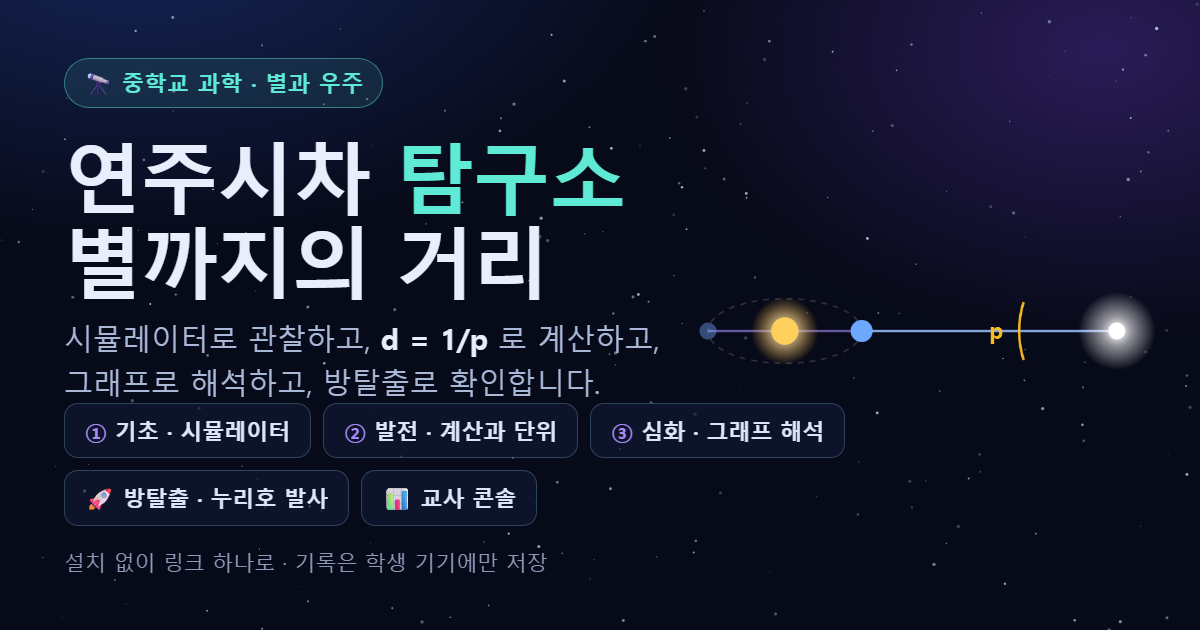
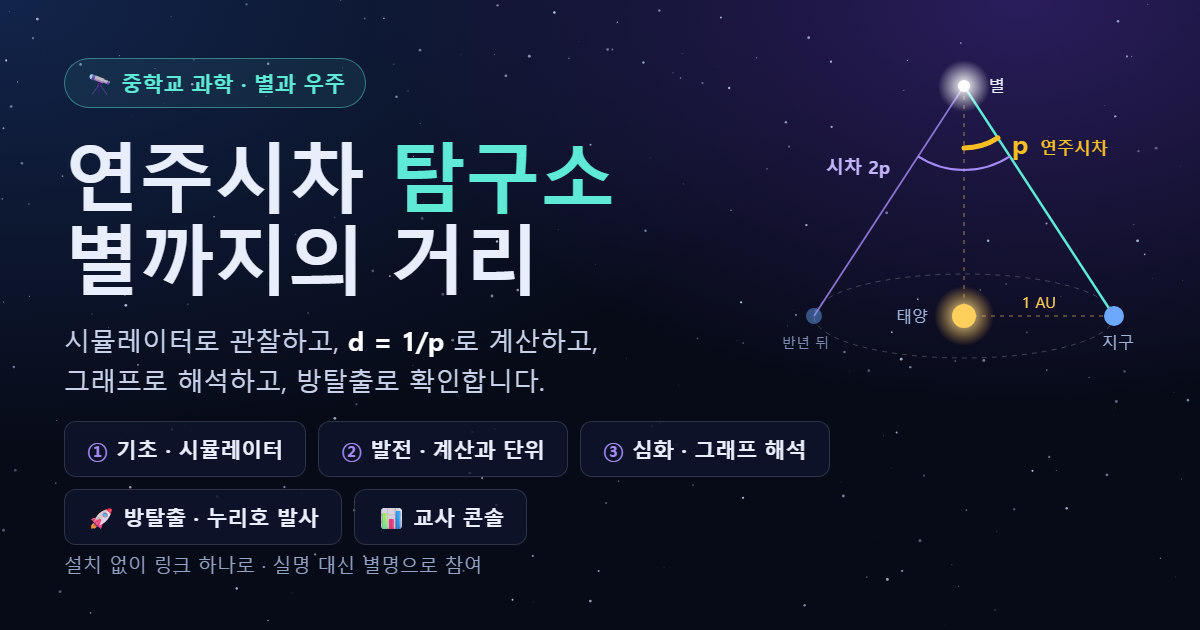
연주시차 그림 수정(전체 각=시차 2p, 절반=연주시차 p), 표 해석→질문, 로그아웃 추가
- 시뮬레이터·미리보기 이미지(og.png): 태양–별 기준선, 1 AU, 시차 2p와 연주시차 p를 구분해 표시
- 관찰 기록표 아래 결론 문장 삭제, 스스로 해석하도록 돕는 질문 4개로 교체
- 학습앱: 상단 로그아웃(저장·즉시 전송 후 새로 불러와 앞 사람 화면 상태 제거), 로그인 칸 비움
- 방탈출: 게임 중·완료 후 로그아웃(진행 상태 암호화 저장·시트 전송), 로그인 칸 비움

diff --git a/index.html b/index.html
@@ -21,7 +21,7 @@
 <meta property="og:image:type" content="image/png">
 <meta property="og:image:width" content="1200">
 <meta property="og:image:height" content="630">
-<meta property="og:image:alt" content="태양을 도는 지구의 두 위치에서 같은 별을 바라볼 때 생기는 연주시차 각 p를 나타낸 그림과 앱 소개">
+<meta property="og:image:alt" content="태양 좌우의 두 지구 위치에서 같은 별을 볼 때 생기는 시차 2p와 그 절반인 연주시차 p를 나타낸 그림과 앱 소개">
 <meta name="twitter:card" content="summary_large_image">
 <meta name="twitter:title" content="연주시차 탐구소 · 별까지의 거리">
 <meta name="twitter:description" content="관찰 → 계산(d = 1/p) → 그래프 해석 → 방탈출. 중학교 과학 ‘별과 우주’ 학습앱.">
@@ -208,6 +208,7 @@ footer.foot{text-align:center;color:var(--muted);font-size:.8rem;padding:20px 0}
     <button class="btn small ghost" id="btnHome">학습 허브</button>
     <button class="btn small ghost" id="btnTeacher">교사 콘솔</button>
     <div class="who" id="whoami"></div>
+    <button class="btn small ghost hidden" id="btnLogout" title="기록을 저장하고 다음 사람이 쓸 수 있게 합니다">로그아웃</button>
   </header>
 
   <!-- ============ 로그인 ============ -->
@@ -1087,7 +1088,7 @@ function doAutoSubmit(reason){
   if(!autoSubmitReady()) return;
   const body=submitPayload();
   body.reason=reason||'자동';
-  fetch((cfg().sheetUrl||'').trim(),{method:'POST',mode:'no-cors',
+  fetch((cfg().sheetUrl||'').trim(),{method:'POST',mode:'no-cors',keepalive:true,
       headers:{'Content-Type':'text/plain;charset=utf-8'},body:JSON.stringify(body)})
     .then(()=>{ AUTO.state='sent'; AUTO.last=Date.now(); paintAutoStatus(); })
     .catch(()=>{ AUTO.state='fail'; paintAutoStatus(); });
@@ -1235,6 +1236,23 @@ function show(name){
 }
 function paintWho(){
   $('#whoami').textContent = ME ? `${ME.klass} · ${ME.name}` : '';
+  const lo=$('#btnLogout'); if(lo) lo.classList.toggle('hidden',!ME);
+}
+/* 로그아웃 — 한 기기를 여러 학생이 번갈아 쓸 때 앞 사람의 기록·화면 상태가 남지 않게 한다 */
+function askLogout(){
+  if(!ME) return;
+  modal('로그아웃',el('p',{},`${ME.klass} · ${ME.name} 학생의 기록을 저장하고 로그아웃합니다. 다음 사람은 자기 학급·번호·별명으로 새로 들어오세요.`),
+    [{label:'로그아웃',cls:'primary',fn:doLogout},{label:'취소'}]);
+}
+function doLogout(){
+  if(!ME) return;
+  if(STAGE_OF[curScreen]) addStageTime(STAGE_OF[curScreen],Date.now()-screenEnterAt);
+  saveDB();
+  // 보내려고 모아 둔 자동 전송이 있으면 지금 바로 보낸다(keepalive로 새로고침 중에도 전송)
+  if(autoSubmitReady()){ clearTimeout(AUTO.timer); doAutoSubmit('로그아웃'); }
+  ME=null;
+  // 기록표·서술 입력칸·단계 진행 등 메모리에 남은 화면 상태를 모두 비우기 위해 새로 불러온다
+  setTimeout(()=>location.replace(location.pathname),250);
 }
 function modal(title,bodyNode,buttons){
   const root=$('#modalRoot'); root.innerHTML='';
@@ -2141,18 +2159,37 @@ function drawSpace(){
   x.fillStyle='#e8eefb';
   const sLab=`별 (d = ${fx(basic.dist,1)} pc)`, sw=x.measureText(sLab).width;
   x.fillText(sLab,clamp(sx+18,4,W-sw-4),sy+5);
-  // 시차각 표시 — 별에서 두 시선 사이의 각을 호로 그린다
+  // 각 표시 — 두 시선 사이 전체 각 = 시차(2p), 태양–별 기준선과 지구 시선 사이 = 연주시차 p
   const a1=Math.atan2(ey-sy,ex-sx), a2=Math.atan2(ey2-sy,ex2-sx);
-  const aLo=Math.min(a1,a2), aHi=Math.max(a1,a2);
+  const aSun=Math.atan2(cy-sy,cx-sx);                // 별→태양 기준선 방향
   const arcR=clamp(26+600/basic.dist,26,Math.max(30,(cy-RY-sy)*.5));
-  x.strokeStyle='rgba(251,191,36,.9)'; x.lineWidth=1.4;
-  x.beginPath(); x.arc(sx,sy,arcR,aLo,aHi); x.stroke();
-  x.fillStyle='#fbbf24'; x.font='bold 13px system-ui';
-  // 시차 라벨은 호의 오른쪽 끝 옆에 둔다
-  const pLab=`p = ${fx(pOf(basic.dist),3)}″`, pw=x.measureText(pLab).width;
-  x.fillText(pLab,clamp(sx+arcR*Math.cos(aLo)+8,4,W-pw-4),sy+arcR*Math.sin(aLo)+4);
+  const p=pOf(basic.dist);
+  // 태양–별 기준선(점선)과 태양–지구 1 AU
+  x.strokeStyle='rgba(255,207,92,.55)'; x.lineWidth=1; x.setLineDash([3,4]);
+  x.beginPath(); x.moveTo(cx,cy); x.lineTo(sx,sy); x.stroke();
+  x.beginPath(); x.moveTo(cx,cy); x.lineTo(ex,ey); x.stroke(); x.setLineDash([]);
+  x.font='11px system-ui'; x.fillStyle='#ffcf5c';
+  if(Math.abs(ex-cx)>40) x.fillText('1 AU',(cx+ex)/2-12,(cy+ey)/2-6);
+  // 바깥 호: 전체 시차 2p (얇게)
+  const R2=arcR+18;
+  x.strokeStyle='rgba(167,139,250,.85)'; x.lineWidth=1.2;
+  x.beginPath(); x.arc(sx,sy,R2,Math.min(a1,a2),Math.max(a1,a2)); x.stroke();
+  // 안쪽 호: 연주시차 p (굵게) — 태양 기준선과 현재 지구 시선 사이
+  x.strokeStyle='rgba(251,191,36,.95)'; x.lineWidth=3;
+  x.beginPath(); x.arc(sx,sy,arcR,Math.min(a1,aSun),Math.max(a1,aSun)); x.stroke();
+  // 라벨: p는 현재 지구 쪽, 2p는 반대쪽
+  const side=ex>=cx?1:-1;
+  x.font='bold 13px system-ui'; x.fillStyle='#fbbf24';
+  const pLab=`p = ${fx(p,3)}″ (연주시차)`, pw=x.measureText(pLab).width;
+  // 시선 바깥쪽, 호와 만나는 점보다 살짝 위에 써서 시선과 겹치지 않게 한다
+  const px1=sx+arcR*Math.cos(a1), py1=sy+arcR*Math.sin(a1);
+  x.fillText(pLab,clamp(side>0?px1+10:px1-pw-10,4,W-pw-4),py1-3);
+  x.font='12px system-ui'; x.fillStyle='#c4b5fd';
+  const qLab=`시차 2p = ${fx(2*p,3)}″`, qw=x.measureText(qLab).width;
+  const qx=sx+R2*Math.cos(a2), qy=sy+R2*Math.sin(a2);
+  x.fillText(qLab,clamp(side>0?qx-qw-10:qx+10,4,W-qw-4),qy-3);
   x.fillStyle='#93a3c4'; x.font='12px system-ui';
-  x.fillText('반년 뒤 지구는 태양 반대편(연한 점) — 두 위치에서 본 별의 방향 차이가 시차',12,H-12);
+  x.fillText('반년 간격 두 시선 사이 전체 각 = 시차(2p) · 그 절반 = 연주시차 p',12,H-12);
 }
 
 let skyBg=null;
@@ -2257,11 +2294,15 @@ function paintRec(){
   $('#recCount').textContent=basic.rec.length;
   const fb=$('#recFb');
   if(recSpreadOk()){
-    const a=basic.rec[0], b=basic.rec[basic.rec.length-1];   // 정렬돼 있으므로 최소·최대
-    const k=b.d/a.d;
+    // 해석은 학생 몫 — 결론을 알려 주지 않고, 표를 읽게 하는 질문만 제시한다
     fb.className='fb ok';
-    fb.innerHTML=`좋아요! 거리가 <b>${fx(a.d,1)} pc → ${fx(b.d,1)} pc</b> 로 약 <b>${fx(k,1)}배</b> 멀어지자 `+
-      `연주시차는 <b>${fx(a.p,3)}″ → ${fx(b.p,3)}″</b>, 즉 약 <b>${fx(1/k,2)}배</b>(≈ ${fx(k,1)}분의 1)로 작아졌습니다.`;
+    fb.innerHTML='기록 완료! 표를 보며 스스로 답해 보세요. (다음 관문에서 결론을 씁니다)'
+      +'<ol style="margin:6px 0 0;padding-left:20px;line-height:1.8">'
+      +'<li>가장 가까운 별과 가장 먼 별의 거리는 약 몇 배 차이 나나요?</li>'
+      +'<li>그때 연주시차는 커졌나요, 작아졌나요? 약 몇 배가 되었나요?</li>'
+      +'<li>각 줄마다 <b>거리 × 연주시차</b>를 계산해 보면 어떤 규칙이 보이나요?</li>'
+      +'<li>거리가 지금의 2배인 별이 있다면, 연주시차는 어떻게 될지 예상해 보세요. 그렇게 생각한 근거는?</li>'
+      +'</ol>';
   }else if(basic.rec.length>=3){
     fb.className='fb';
     fb.textContent='기록한 거리들이 서로 비슷합니다. 가장 먼 값이 가장 가까운 값의 2배 이상이 되도록 한 번 더 기록해 보세요.';
@@ -4813,6 +4854,10 @@ function boot(){
   setLevel('basic');
   openDevBridge();
   paintAutoStatus();
+  // 브라우저가 앞 사람 입력값을 되살려 놓지 않도록 로그인 칸을 비운다
+  ['#inKlass','#inNo','#inName'].forEach(s=>{ const n=$(s); if(n) n.value=''; });
+  $('#btnLogout').addEventListener('click',askLogout);
+  paintWho();
   show('login');
 }
 /* 개발·점검용 접근 지점 — 주소에 ?dev=<교사PIN> 이 있을 때만 열린다.

diff --git a/연주시차_학습앱.html b/연주시차_학습앱.html
@@ -21,7 +21,7 @@
 <meta property="og:image:type" content="image/png">
 <meta property="og:image:width" content="1200">
 <meta property="og:image:height" content="630">
-<meta property="og:image:alt" content="태양을 도는 지구의 두 위치에서 같은 별을 바라볼 때 생기는 연주시차 각 p를 나타낸 그림과 앱 소개">
+<meta property="og:image:alt" content="태양 좌우의 두 지구 위치에서 같은 별을 볼 때 생기는 시차 2p와 그 절반인 연주시차 p를 나타낸 그림과 앱 소개">
 <meta name="twitter:card" content="summary_large_image">
 <meta name="twitter:title" content="연주시차 탐구소 · 별까지의 거리">
 <meta name="twitter:description" content="관찰 → 계산(d = 1/p) → 그래프 해석 → 방탈출. 중학교 과학 ‘별과 우주’ 학습앱.">
@@ -208,6 +208,7 @@ footer.foot{text-align:center;color:var(--muted);font-size:.8rem;padding:20px 0}
     <button class="btn small ghost" id="btnHome">학습 허브</button>
     <button class="btn small ghost" id="btnTeacher">교사 콘솔</button>
     <div class="who" id="whoami"></div>
+    <button class="btn small ghost hidden" id="btnLogout" title="기록을 저장하고 다음 사람이 쓸 수 있게 합니다">로그아웃</button>
   </header>
 
   <!-- ============ 로그인 ============ -->
@@ -1087,7 +1088,7 @@ function doAutoSubmit(reason){
   if(!autoSubmitReady()) return;
   const body=submitPayload();
   body.reason=reason||'자동';
-  fetch((cfg().sheetUrl||'').trim(),{method:'POST',mode:'no-cors',
+  fetch((cfg().sheetUrl||'').trim(),{method:'POST',mode:'no-cors',keepalive:true,
       headers:{'Content-Type':'text/plain;charset=utf-8'},body:JSON.stringify(body)})
     .then(()=>{ AUTO.state='sent'; AUTO.last=Date.now(); paintAutoStatus(); })
     .catch(()=>{ AUTO.state='fail'; paintAutoStatus(); });
@@ -1235,6 +1236,23 @@ function show(name){
 }
 function paintWho(){
   $('#whoami').textContent = ME ? `${ME.klass} · ${ME.name}` : '';
+  const lo=$('#btnLogout'); if(lo) lo.classList.toggle('hidden',!ME);
+}
+/* 로그아웃 — 한 기기를 여러 학생이 번갈아 쓸 때 앞 사람의 기록·화면 상태가 남지 않게 한다 */
+function askLogout(){
+  if(!ME) return;
+  modal('로그아웃',el('p',{},`${ME.klass} · ${ME.name} 학생의 기록을 저장하고 로그아웃합니다. 다음 사람은 자기 학급·번호·별명으로 새로 들어오세요.`),
+    [{label:'로그아웃',cls:'primary',fn:doLogout},{label:'취소'}]);
+}
+function doLogout(){
+  if(!ME) return;
+  if(STAGE_OF[curScreen]) addStageTime(STAGE_OF[curScreen],Date.now()-screenEnterAt);
+  saveDB();
+  // 보내려고 모아 둔 자동 전송이 있으면 지금 바로 보낸다(keepalive로 새로고침 중에도 전송)
+  if(autoSubmitReady()){ clearTimeout(AUTO.timer); doAutoSubmit('로그아웃'); }
+  ME=null;
+  // 기록표·서술 입력칸·단계 진행 등 메모리에 남은 화면 상태를 모두 비우기 위해 새로 불러온다
+  setTimeout(()=>location.replace(location.pathname),250);
 }
 function modal(title,bodyNode,buttons){
   const root=$('#modalRoot'); root.innerHTML='';
@@ -2141,18 +2159,37 @@ function drawSpace(){
   x.fillStyle='#e8eefb';
   const sLab=`별 (d = ${fx(basic.dist,1)} pc)`, sw=x.measureText(sLab).width;
   x.fillText(sLab,clamp(sx+18,4,W-sw-4),sy+5);
-  // 시차각 표시 — 별에서 두 시선 사이의 각을 호로 그린다
+  // 각 표시 — 두 시선 사이 전체 각 = 시차(2p), 태양–별 기준선과 지구 시선 사이 = 연주시차 p
   const a1=Math.atan2(ey-sy,ex-sx), a2=Math.atan2(ey2-sy,ex2-sx);
-  const aLo=Math.min(a1,a2), aHi=Math.max(a1,a2);
+  const aSun=Math.atan2(cy-sy,cx-sx);                // 별→태양 기준선 방향
   const arcR=clamp(26+600/basic.dist,26,Math.max(30,(cy-RY-sy)*.5));
-  x.strokeStyle='rgba(251,191,36,.9)'; x.lineWidth=1.4;
-  x.beginPath(); x.arc(sx,sy,arcR,aLo,aHi); x.stroke();
-  x.fillStyle='#fbbf24'; x.font='bold 13px system-ui';
-  // 시차 라벨은 호의 오른쪽 끝 옆에 둔다
-  const pLab=`p = ${fx(pOf(basic.dist),3)}″`, pw=x.measureText(pLab).width;
-  x.fillText(pLab,clamp(sx+arcR*Math.cos(aLo)+8,4,W-pw-4),sy+arcR*Math.sin(aLo)+4);
+  const p=pOf(basic.dist);
+  // 태양–별 기준선(점선)과 태양–지구 1 AU
+  x.strokeStyle='rgba(255,207,92,.55)'; x.lineWidth=1; x.setLineDash([3,4]);
+  x.beginPath(); x.moveTo(cx,cy); x.lineTo(sx,sy); x.stroke();
+  x.beginPath(); x.moveTo(cx,cy); x.lineTo(ex,ey); x.stroke(); x.setLineDash([]);
+  x.font='11px system-ui'; x.fillStyle='#ffcf5c';
+  if(Math.abs(ex-cx)>40) x.fillText('1 AU',(cx+ex)/2-12,(cy+ey)/2-6);
+  // 바깥 호: 전체 시차 2p (얇게)
+  const R2=arcR+18;
+  x.strokeStyle='rgba(167,139,250,.85)'; x.lineWidth=1.2;
+  x.beginPath(); x.arc(sx,sy,R2,Math.min(a1,a2),Math.max(a1,a2)); x.stroke();
+  // 안쪽 호: 연주시차 p (굵게) — 태양 기준선과 현재 지구 시선 사이
+  x.strokeStyle='rgba(251,191,36,.95)'; x.lineWidth=3;
+  x.beginPath(); x.arc(sx,sy,arcR,Math.min(a1,aSun),Math.max(a1,aSun)); x.stroke();
+  // 라벨: p는 현재 지구 쪽, 2p는 반대쪽
+  const side=ex>=cx?1:-1;
+  x.font='bold 13px system-ui'; x.fillStyle='#fbbf24';
+  const pLab=`p = ${fx(p,3)}″ (연주시차)`, pw=x.measureText(pLab).width;
+  // 시선 바깥쪽, 호와 만나는 점보다 살짝 위에 써서 시선과 겹치지 않게 한다
+  const px1=sx+arcR*Math.cos(a1), py1=sy+arcR*Math.sin(a1);
+  x.fillText(pLab,clamp(side>0?px1+10:px1-pw-10,4,W-pw-4),py1-3);
+  x.font='12px system-ui'; x.fillStyle='#c4b5fd';
+  const qLab=`시차 2p = ${fx(2*p,3)}″`, qw=x.measureText(qLab).width;
+  const qx=sx+R2*Math.cos(a2), qy=sy+R2*Math.sin(a2);
+  x.fillText(qLab,clamp(side>0?qx-qw-10:qx+10,4,W-qw-4),qy-3);
   x.fillStyle='#93a3c4'; x.font='12px system-ui';
-  x.fillText('반년 뒤 지구는 태양 반대편(연한 점) — 두 위치에서 본 별의 방향 차이가 시차',12,H-12);
+  x.fillText('반년 간격 두 시선 사이 전체 각 = 시차(2p) · 그 절반 = 연주시차 p',12,H-12);
 }
 
 let skyBg=null;
@@ -2257,11 +2294,15 @@ function paintRec(){
   $('#recCount').textContent=basic.rec.length;
   const fb=$('#recFb');
   if(recSpreadOk()){
-    const a=basic.rec[0], b=basic.rec[basic.rec.length-1];   // 정렬돼 있으므로 최소·최대
-    const k=b.d/a.d;
+    // 해석은 학생 몫 — 결론을 알려 주지 않고, 표를 읽게 하는 질문만 제시한다
     fb.className='fb ok';
-    fb.innerHTML=`좋아요! 거리가 <b>${fx(a.d,1)} pc → ${fx(b.d,1)} pc</b> 로 약 <b>${fx(k,1)}배</b> 멀어지자 `+
-      `연주시차는 <b>${fx(a.p,3)}″ → ${fx(b.p,3)}″</b>, 즉 약 <b>${fx(1/k,2)}배</b>(≈ ${fx(k,1)}분의 1)로 작아졌습니다.`;
+    fb.innerHTML='기록 완료! 표를 보며 스스로 답해 보세요. (다음 관문에서 결론을 씁니다)'
+      +'<ol style="margin:6px 0 0;padding-left:20px;line-height:1.8">'
+      +'<li>가장 가까운 별과 가장 먼 별의 거리는 약 몇 배 차이 나나요?</li>'
+      +'<li>그때 연주시차는 커졌나요, 작아졌나요? 약 몇 배가 되었나요?</li>'
+      +'<li>각 줄마다 <b>거리 × 연주시차</b>를 계산해 보면 어떤 규칙이 보이나요?</li>'
+      +'<li>거리가 지금의 2배인 별이 있다면, 연주시차는 어떻게 될지 예상해 보세요. 그렇게 생각한 근거는?</li>'
+      +'</ol>';
   }else if(basic.rec.length>=3){
     fb.className='fb';
     fb.textContent='기록한 거리들이 서로 비슷합니다. 가장 먼 값이 가장 가까운 값의 2배 이상이 되도록 한 번 더 기록해 보세요.';
@@ -4813,6 +4854,10 @@ function boot(){
   setLevel('basic');
   openDevBridge();
   paintAutoStatus();
+  // 브라우저가 앞 사람 입력값을 되살려 놓지 않도록 로그인 칸을 비운다
+  ['#inKlass','#inNo','#inName'].forEach(s=>{ const n=$(s); if(n) n.value=''; });
+  $('#btnLogout').addEventListener('click',askLogout);
+  paintWho();
   show('login');
 }
 /* 개발·점검용 접근 지점 — 주소에 ?dev=<교사PIN> 이 있을 때만 열린다.

diff --git a/code_artifact.html b/code_artifact.html
@@ -130,8 +130,10 @@
                 <span class="text-gray-400">STAGE: <span id="stage-display" class="neon-text font-bold text-lg">1 / 4</span></span>
                 <span class="text-gray-400">오류: <span id="mistake-display" class="text-red-400 font-bold">0</span></span>
             </div>
-            <div class="text-gray-400 text-sm md:text-base">
-                TIME: <span id="timer-display" class="scifi-font neon-text text-xl">00:00</span>
+            <div class="flex items-center gap-4 text-gray-400 text-sm md:text-base">
+                <span>TIME: <span id="timer-display" class="scifi-font neon-text text-xl">00:00</span></span>
+                <button onclick="logout()" title="기록을 저장하고 다음 사람이 쓸 수 있게 합니다"
+                        class="border border-gray-500 text-gray-300 hover:bg-gray-800 py-1 px-3 rounded text-xs">로그아웃</button>
             </div>
         </div>
 
@@ -207,8 +209,8 @@
                 <!-- 데이터 전송 상태 표시 -->
             </div>
 
-            <button onclick="location.reload()" class="scifi-btn py-2 px-6 rounded font-bold">
-                새 임무 시작 (초기화)
+            <button onclick="logout(true)" class="scifi-btn py-2 px-6 rounded font-bold">
+                로그아웃 · 처음 화면으로
             </button>
         </div>
     </div>
@@ -470,7 +472,7 @@
         }
         function pushRemoteEnv(slot, env) {
             if (!appsScriptUrl) return;
-            fetch(appsScriptUrl, { method: 'POST', mode: 'no-cors', headers: { 'Content-Type': 'text/plain;charset=utf-8' },
+            fetch(appsScriptUrl, { method: 'POST', mode: 'no-cors', keepalive: true, headers: { 'Content-Type': 'text/plain;charset=utf-8' },
                 body: JSON.stringify({ action: 'put', slot, blob: JSON.stringify(env) }) }).catch(() => {});
         }
         async function getTeacherPub() {
@@ -878,6 +880,24 @@
             
             elements.answerInput.blur();
         }
+
+        /* 로그아웃 — 진행 상태를 암호화 저장·시트 전송한 뒤 페이지를 새로 불러와
+           앞 사람의 학번·별명·문제·타이머가 메모리와 화면에 남지 않게 한다 */
+        let loggingOut = false;
+        async function logout(skipConfirm) {
+            if (loggingOut) return;
+            const playing = session && session.data.progress;
+            if (!skipConfirm && !confirm(playing ? '지금까지 한 기록을 저장하고 로그아웃할까요? 같은 학번·비밀번호로 다시 들어오면 이어서 할 수 있습니다.' : '로그아웃할까요?')) return;
+            loggingOut = true;
+            clearInterval(gameState.timerInterval);
+            try {
+                if (playing) { await saveProgress(); await saveSlot(true); }   // 두 번째 저장이 시트로 즉시 전송
+            } catch (e) {}
+            session = null;
+            setTimeout(() => location.replace(location.pathname), 250);
+        }
+        // 브라우저가 앞 사람 입력값을 되살려 놓지 않도록 로그인 칸을 비운다
+        ['student-id', 'student-name', 'student-pw'].forEach(id => { const n = document.getElementById(id); if (n) n.value = ''; });
 
         function closeModal() {
             modalContent.classList.remove('scale-100');
